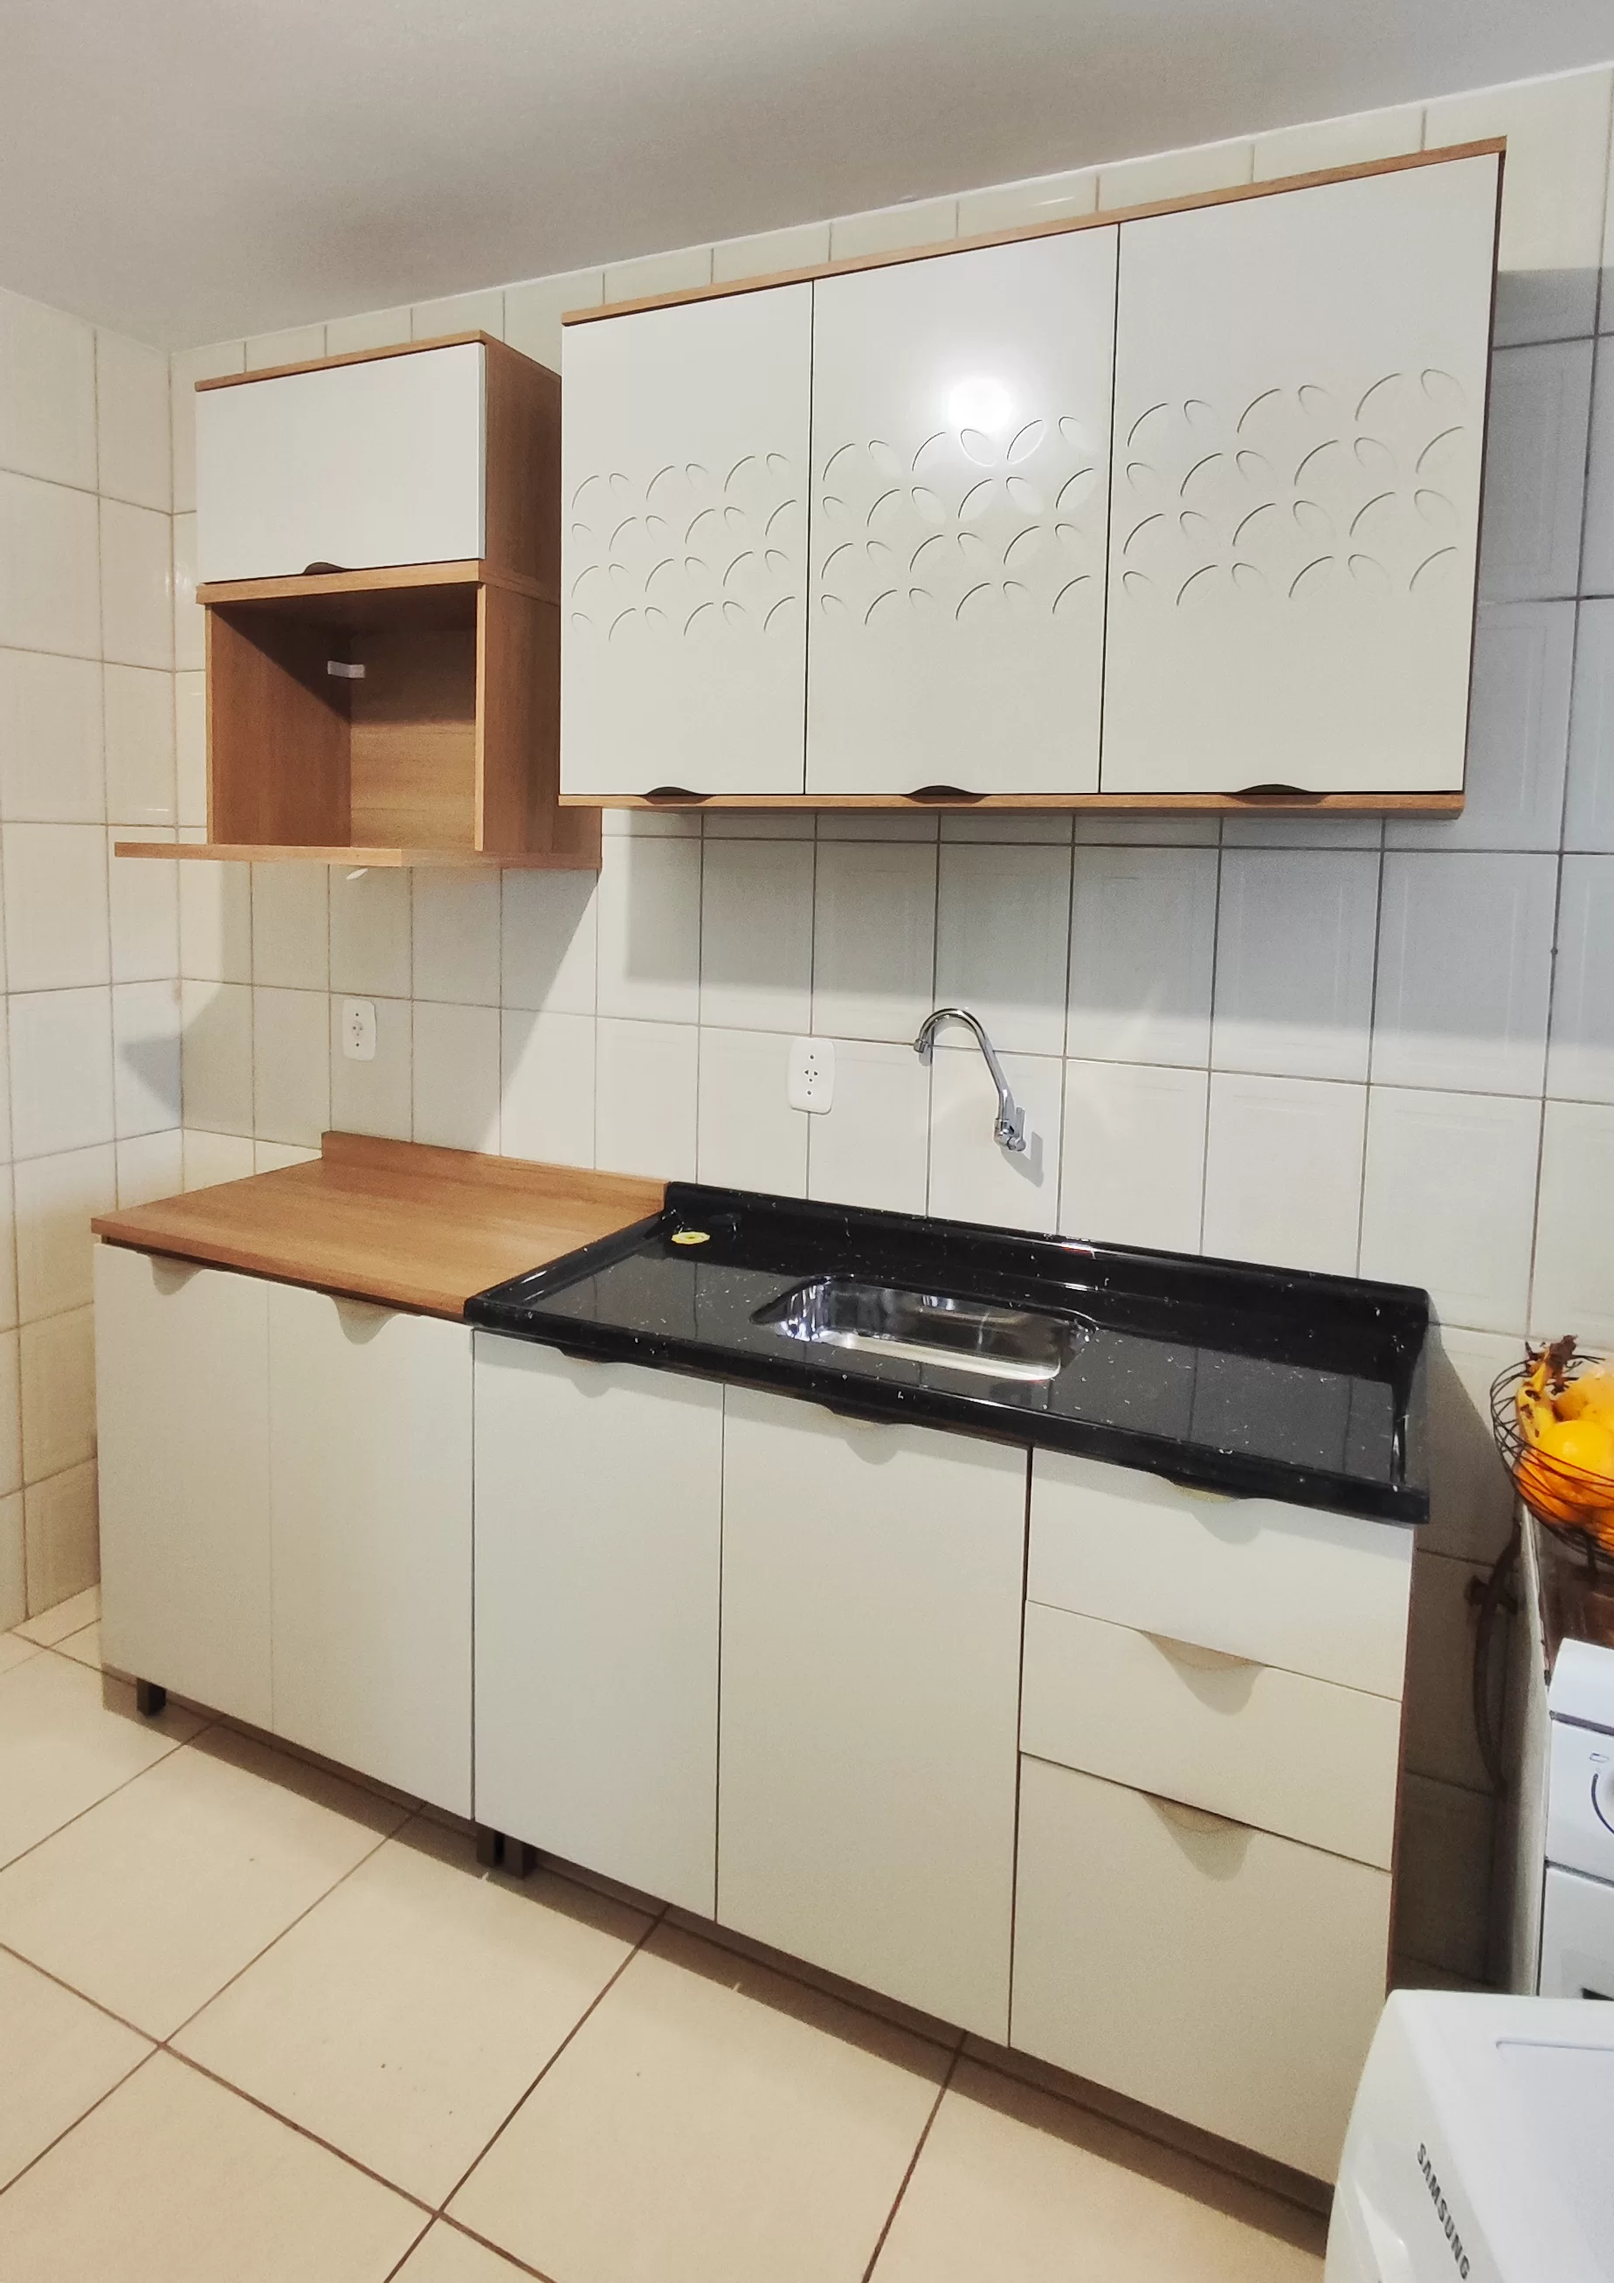
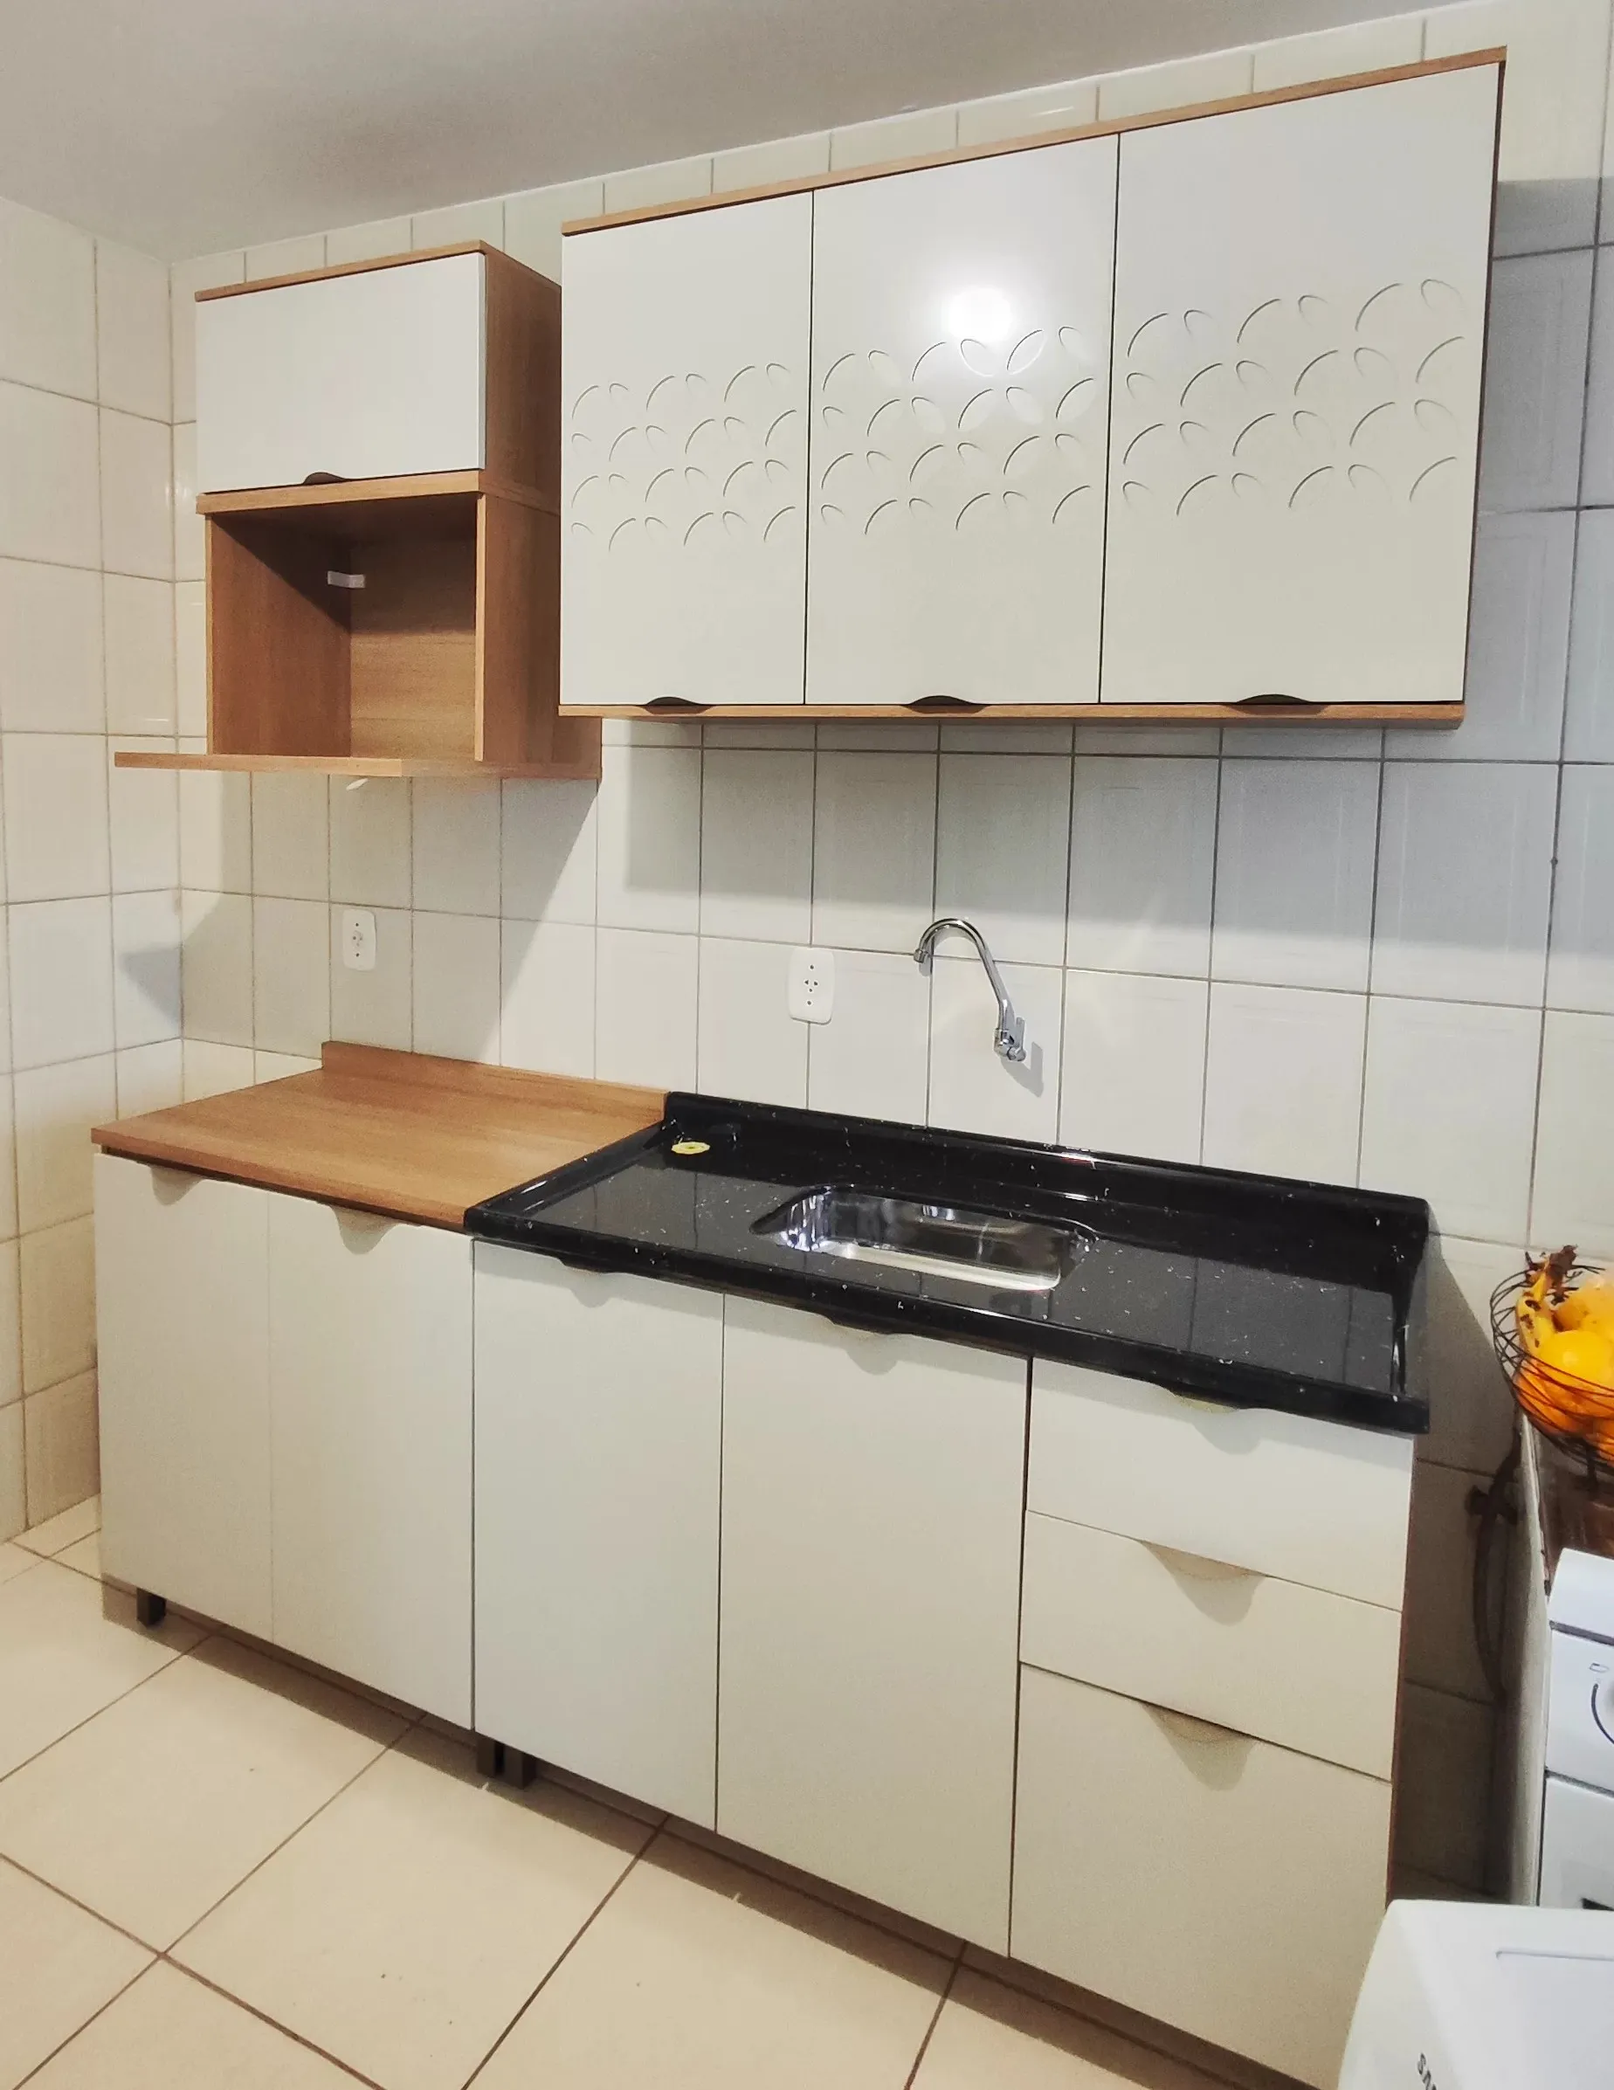
feat: montador - nova mensagem WhatsApp, portfólio ampliado e imagens webp

diff --git a/src/data/site.ts b/src/data/site.ts
@@ -97,7 +97,7 @@ export const PORTFOLIO = [
   {
     src: "/images/portfolio/montagem-cozinha.webp",
     width: 1848,
-    height: 2614,
+    height: 2393,
     alt: "Armários de cozinha brancos e balcão com pia montados. Serviço de montagem de móveis convencionais.",
   },
   {
